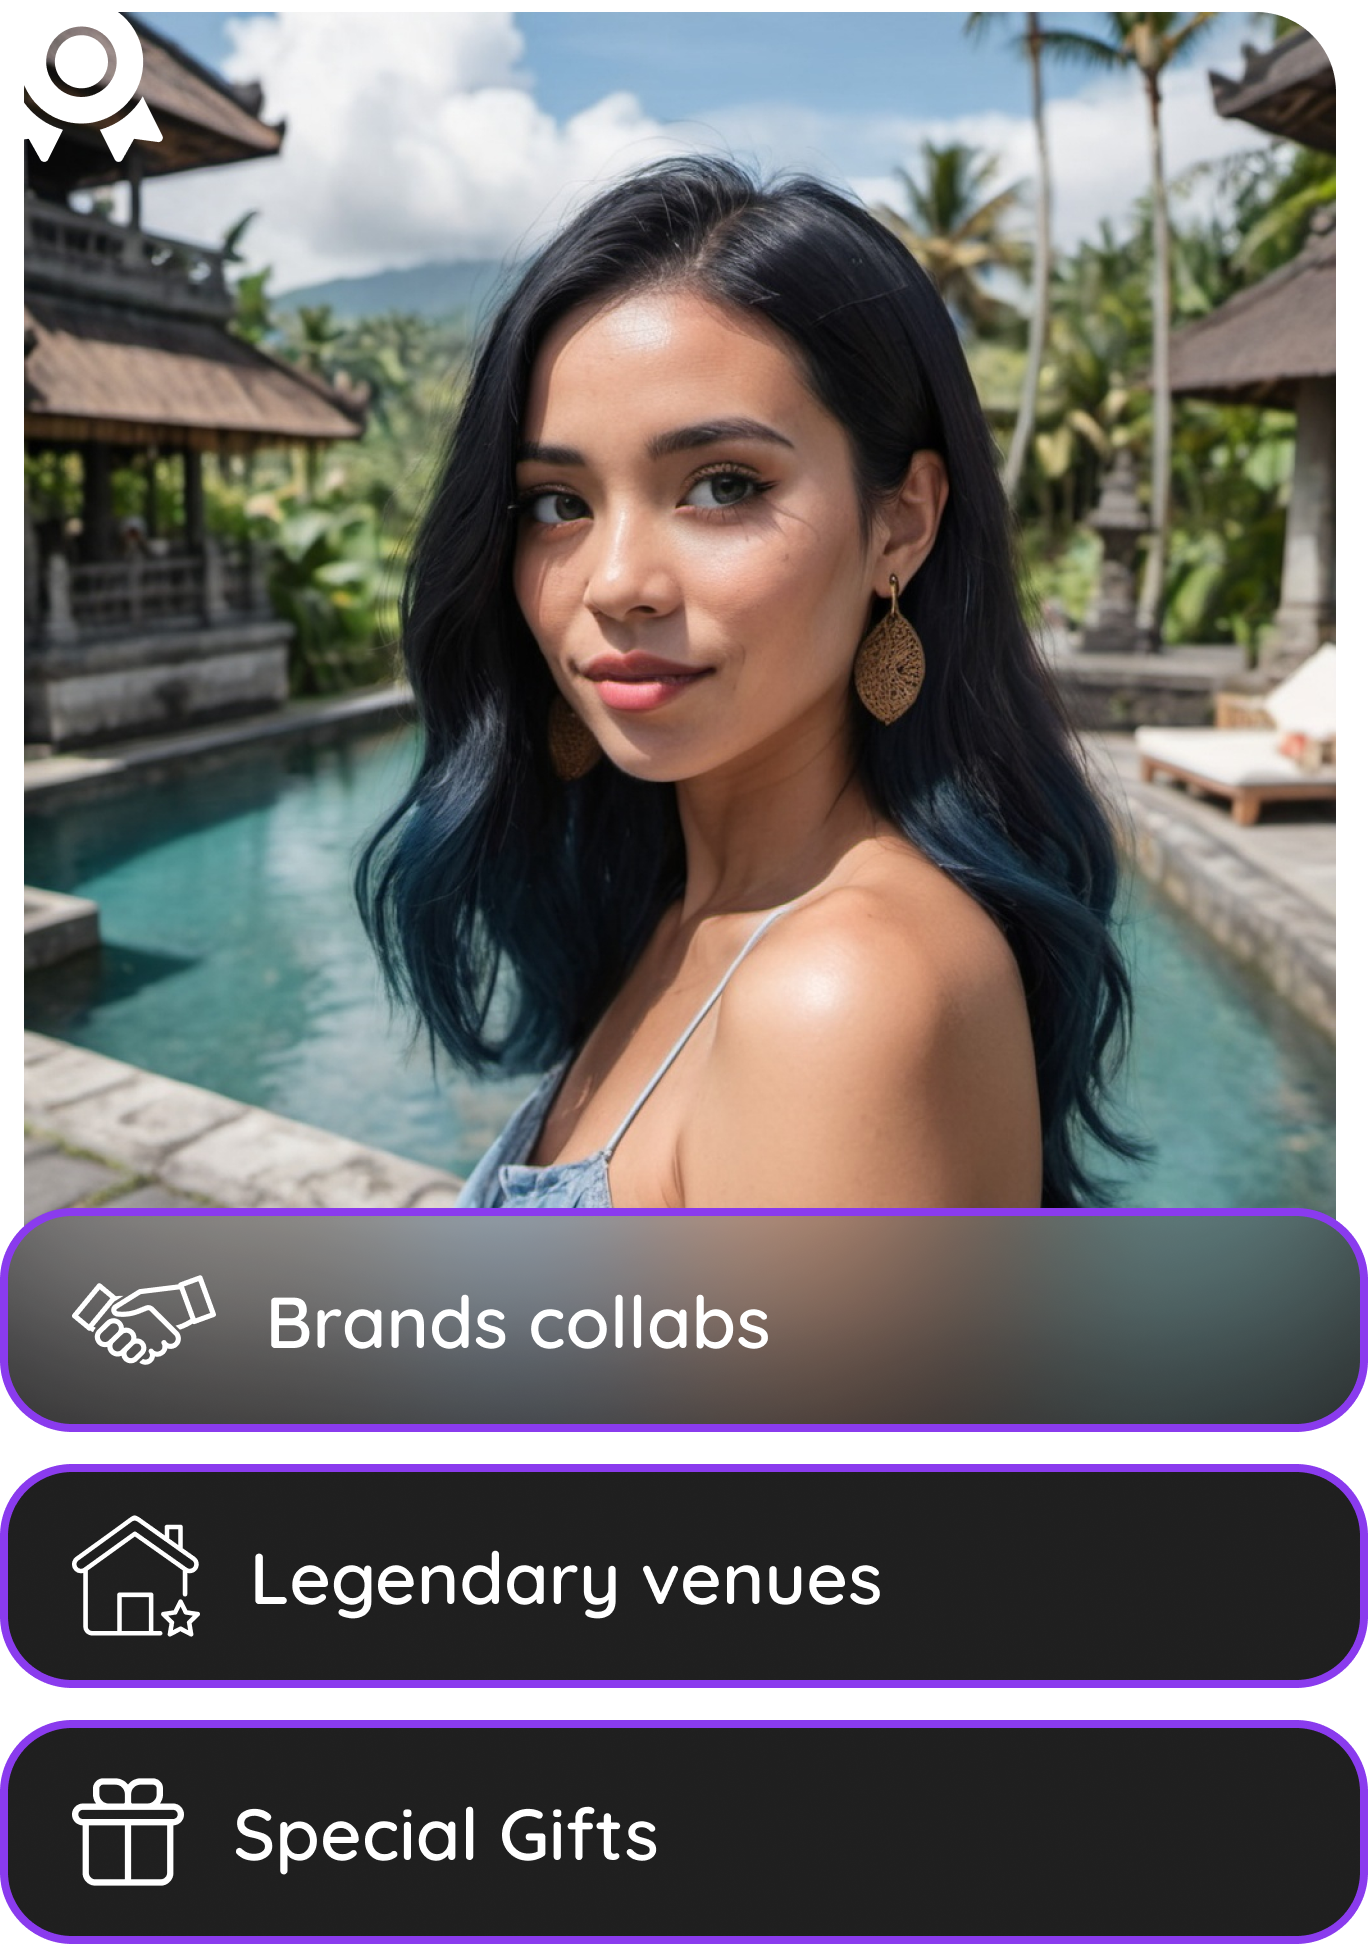
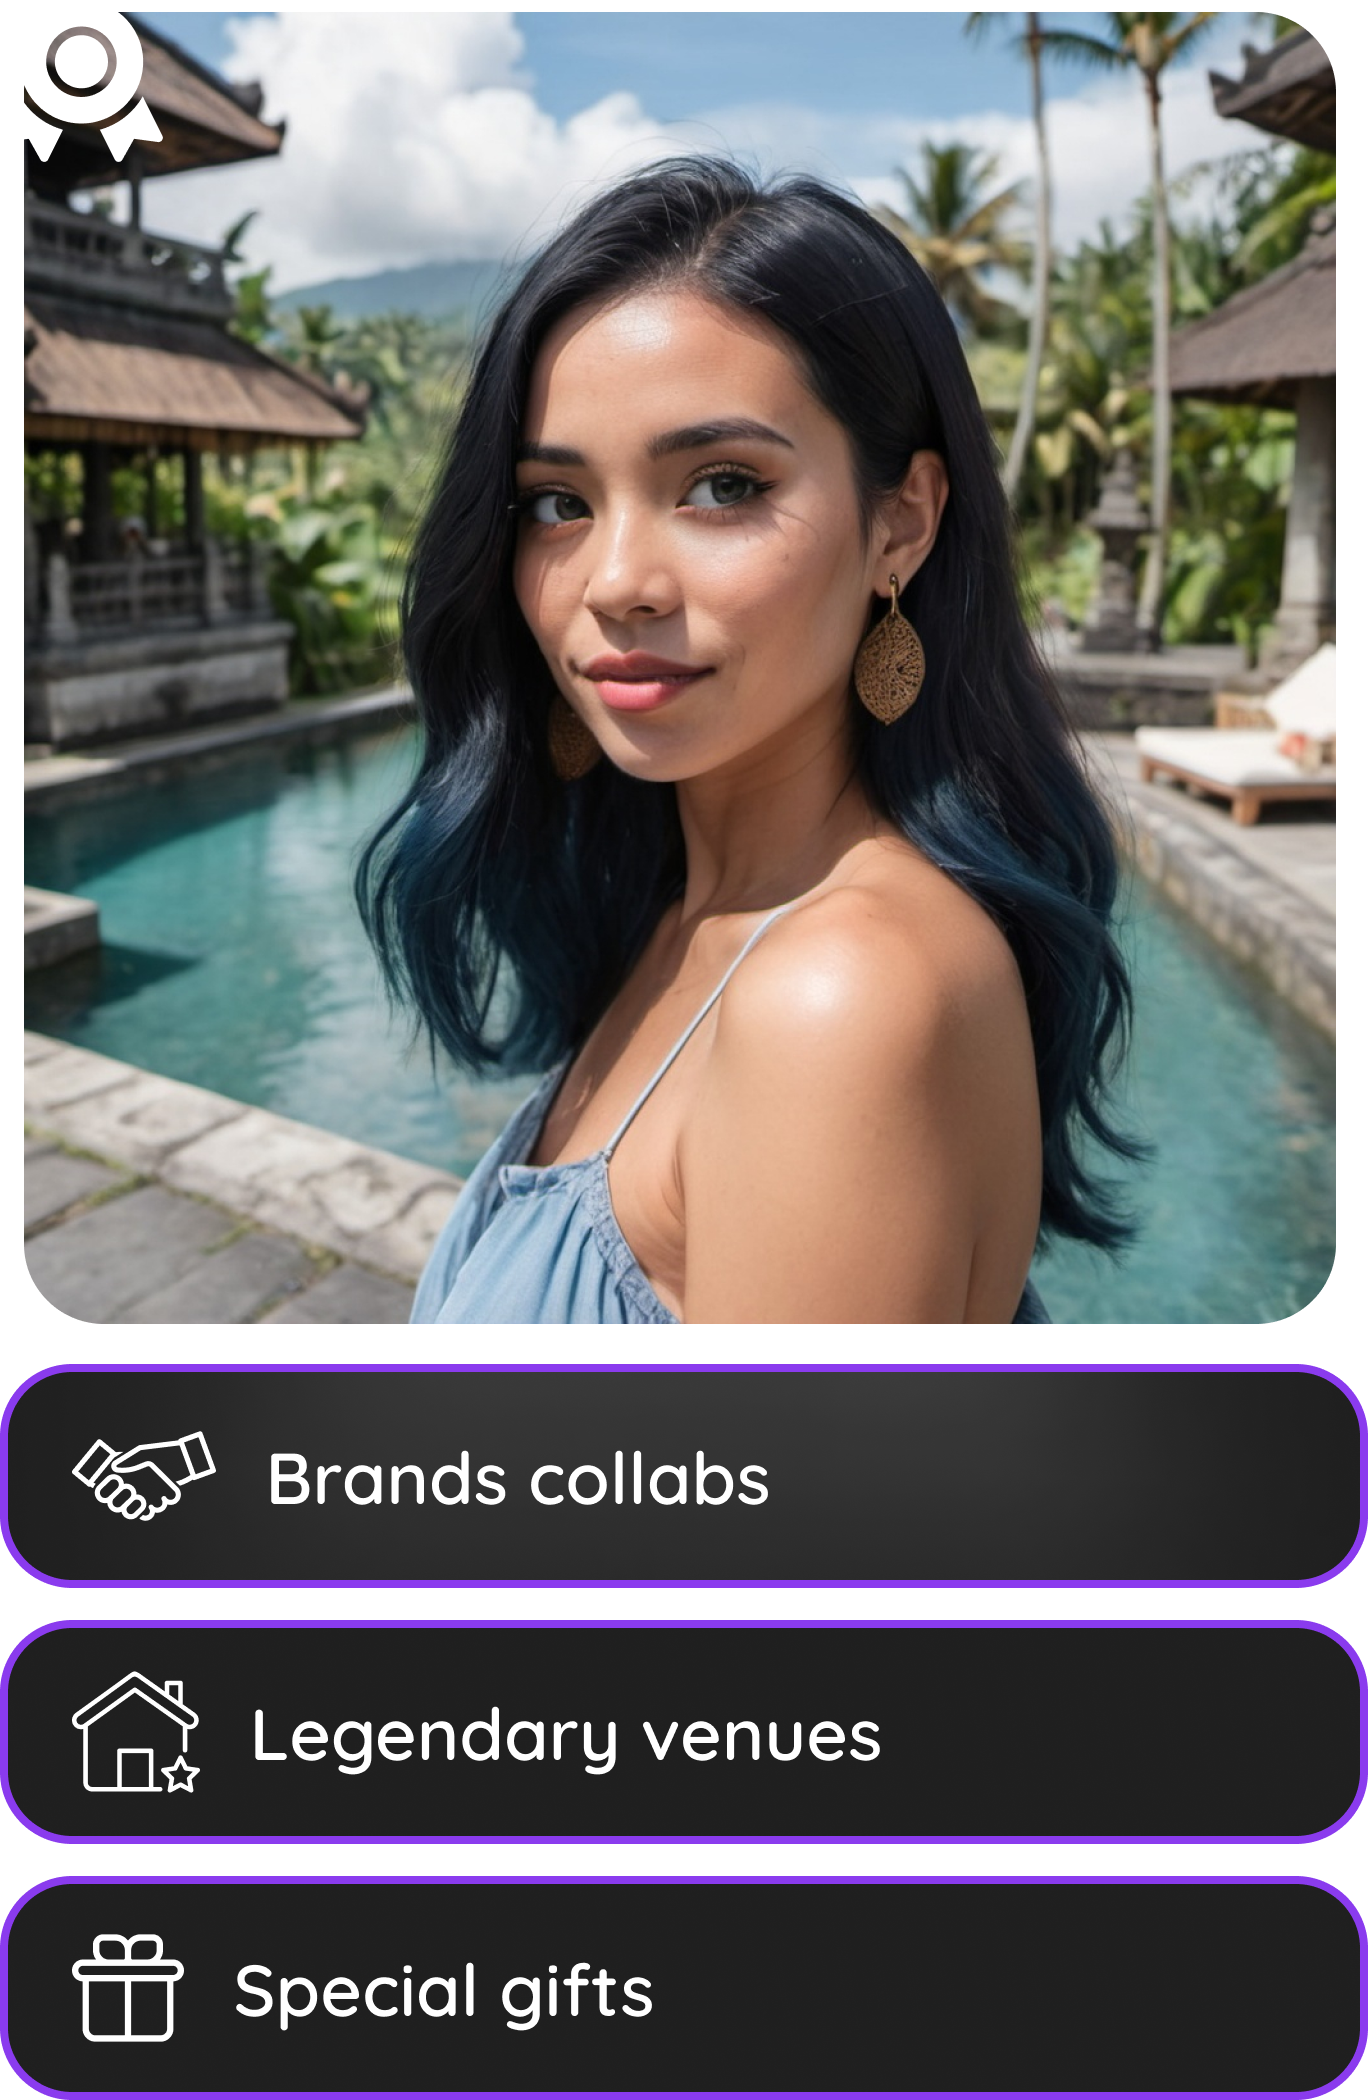
Onboarding images changed

diff --git a/src/screens/OnboardingNew/FirstOnboarding/FirstOnboarding.js b/src/screens/OnboardingNew/FirstOnboarding/FirstOnboarding.js
@@ -59,10 +59,11 @@ const styles = StyleSheet.create({
     alignSelf: 'center',
   },
   textsMainContainer: {
-    marginTop: verticalScale(0),
+    marginTop: verticalScale(410),
   },
   imageStyle: {
-    height: verticalScale(410),
+    position: 'absolute',
+    height: '100%',
     width: '100%',
   },
 })
